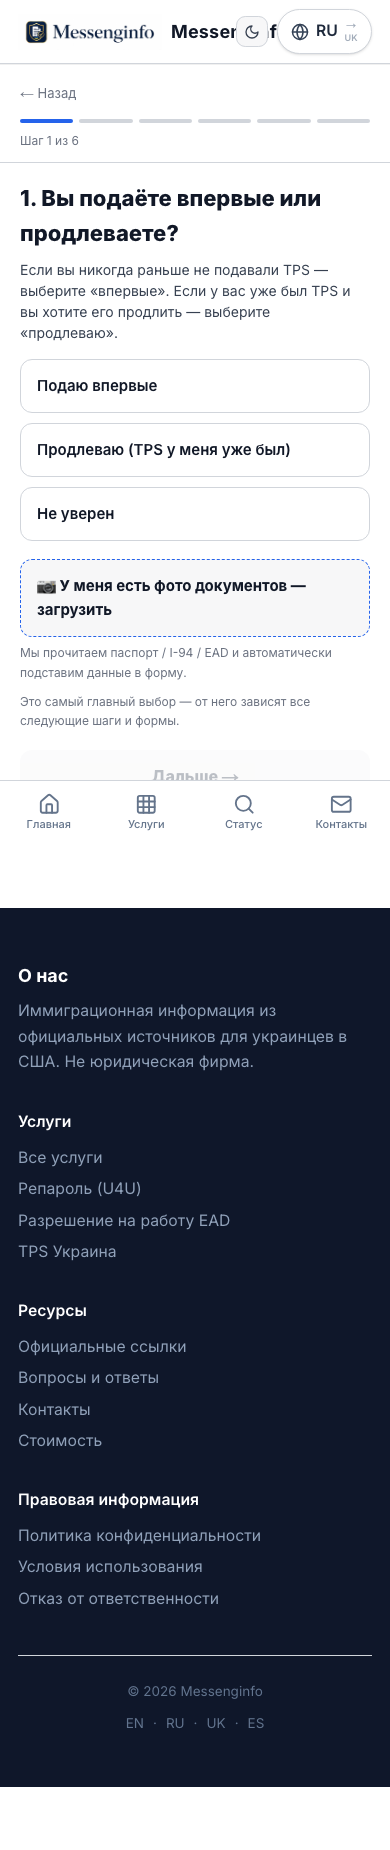
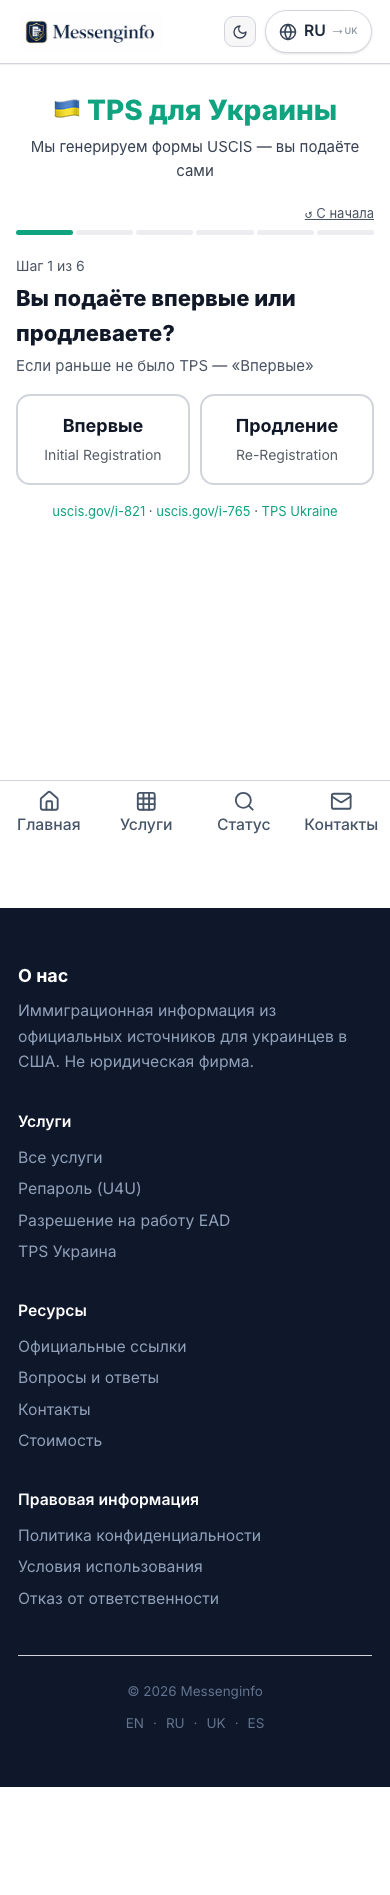
fix: Brain threshold post-contract + EAD dup + passport city + I-94 citizenship
P1: Brain threshold now uses post-contract field count. Before: I-94
had 5+ fields pre-contract → Brain skipped. After contract killed 1,
only 4 survived → identity/place gaps never filled.

P1: EAD given_name duplicate detection. When given_name == family_name
(common OCR error), given_name is dropped → Brain fills correct value.

P2: city_of_birth added to passport contract. Brain extracted it from
visible zone but contract killed it.

P2: country_of_citizenship added to I-94 contract. Module emits this
field name but contract only had country_of_nationality.

P2: Brain targeted fields added for I-94 (place, names) and EAD (given).

P3: BOOKLET_WAVE1_FIELDS → single module-level constant.

1968/1968 tests pass. Session 15.

diff --git a/apps/web/src/app/api/tps/ocr/extract/route.ts b/apps/web/src/app/api/tps/ocr/extract/route.ts
@@ -532,6 +532,18 @@ export async function POST(req: NextRequest) {
   let brainResult: DocumentBrainOutput | null = null
   const ruleFieldsCount = moduleResult?.fields?.length ?? 0
 
+  // P1 FIX: Brain threshold must account for contract filtering.
+  // Without this, I-94 module finds 5+ fields → Brain skips → contract
+  // kills some → only 4 survive → identity/place fields never extracted.
+  // Pre-compute how many fields will survive the contract to decide
+  // whether Brain should run.
+  const contractPreview = applyContract(
+    docTypeHint,
+    moduleResult ? moduleResult.fields.map((f) => f.field) : [],
+    null, // Brain hasn't run yet, no doc_type classification
+  )
+  const postContractFieldCount = contractPreview.accepted_field_keys.length
+
   // 2026-05-22: Targeted Brain Fill — high-value fields that rule modules
   // cannot extract from their primary structured source (e.g. MRZ for
   // passport has no middle_name or country_of_birth). If any of these
@@ -542,18 +554,26 @@ export async function POST(req: NextRequest) {
   // without lowering the global threshold.
   const TARGETED_BRAIN_FIELDS: Record<string, string[]> = {
     passport: ['middle_name', 'country_of_birth', 'province_of_birth'],
-    // BUG-9 FIX (2026-05-24): booklet handwritten OCR is garbage from
-    // Vision. Brain second-pass is the ONLY reliable extraction method
-    // for these fields. Rule module finds labels but values are mangled.
     booklet: ['city_of_birth', 'province_of_birth'],
+    // P2 FIX: I-94 rule module often misses name/place fields due to
+    // CBP format variations. Brain should fill identity + port of entry.
+    i94: ['place_of_last_entry', 'family_name', 'given_name'],
+    // P2 FIX: EAD rule module sometimes duplicates family_name as given_name.
+    ead: ['given_name'],
+    ead_old: ['given_name'],
   }
-  const ruleFieldKeys = new Set(moduleResult?.fields?.map((f) => f.field) ?? [])
+  // Use POST-CONTRACT field keys for targeted check — pre-contract keys
+  // include fields that contract will kill (false "already have it").
+  const postContractKeys = new Set(contractPreview.accepted_field_keys)
   const targetedMissing = (TARGETED_BRAIN_FIELDS[docTypeHint] ?? [])
-    .filter((f) => !ruleFieldKeys.has(f))
+    .filter((f) => !postContractKeys.has(f))
 
+  // P1 FIX: use postContractFieldCount instead of ruleFieldsCount.
+  // Before this fix, I-94 had 5+ pre-contract fields → Brain skipped →
+  // contract killed 1+ → only 4 fields survived → gaps never filled.
   const shouldTryBrain =
     isBrainEnabled() &&
-    (moduleResult === null || moduleResult.matched === false || ruleFieldsCount < 5 ||
+    (moduleResult === null || moduleResult.matched === false || postContractFieldCount < 5 ||
      targetedMissing.length > 0)
   if (shouldTryBrain) {
     try {
@@ -773,7 +793,7 @@ export async function POST(req: NextRequest) {
       ? 'off'
       : moduleResult === null || moduleResult.matched === false
         ? 'no_match'
-        : ruleFieldsCount < 5
+        : postContractFieldCount < 5
           ? 'threshold'
           : targetedMissing.length > 0
             ? 'targeted'

diff --git a/apps/web/src/lib/tps/modules/ead.ts b/apps/web/src/lib/tps/modules/ead.ts
@@ -185,6 +185,20 @@ export function runEadModule(ocr: OcrResult, opts: EadOptions): TpsModuleResult 
     })
   }
 
+  // P1 FIX: EAD OCR sometimes duplicates family_name as given_name
+  // (both extracted as the same ALL-CAPS surname). If they match,
+  // drop given_name so Brain can fill the correct value. Passport
+  // identity authority would override anyway, but standalone EAD
+  // users (no passport) would get wrong data without this guard.
+  const famField = fields.find((f) => f.field === 'family_name')
+  const givField = fields.find((f) => f.field === 'given_name')
+  if (famField && givField &&
+    famField.normalized_value?.toLowerCase().trim() === givField.normalized_value?.toLowerCase().trim()) {
+    const idx = fields.indexOf(givField)
+    if (idx >= 0) fields.splice(idx, 1)
+    warnings.push('EAD given_name identical to family_name — removed to avoid data corruption. Brain or manual entry needed.')
+  }
+
   const matched = fields.length >= 2  // need at least category + expiry OR name fields
   if (!matched) {
     return {

diff --git a/apps/web/src/app/[locale]/services/tps-ukraine/start/TPSWizardV2.tsx b/apps/web/src/app/[locale]/services/tps-ukraine/start/TPSWizardV2.tsx
@@ -1098,6 +1098,10 @@ const SLOT_ALLOWED_FIELDS: Record<string, ReadonlySet<string>> = {
   ]),
   photo: new Set([]),
 }
+// P3 FIX: single module-level constant instead of two inline definitions
+// that could drift independently.
+const BOOKLET_WAVE1_FIELDS: ReadonlySet<string> = new Set(['city_of_birth', 'province_of_birth'])
+
 // TPS Stage I price displayed on the Pay button (single source of truth
 // for the UI label; the actual Stripe Price ID is set server-side).
 const TPS_TIER1_PRICE_DISPLAY = '$15'
@@ -1804,7 +1808,6 @@ export default function TPSWizardV2({ locale }: Props) {
   // near the top of this file) so React's exhaustive-deps lint stays
   // happy without a dep on a recreated Set per render.
   const mergedFields = useMemo(() => {
-    const BOOKLET_WAVE1_FIELDS = new Set(['city_of_birth', 'province_of_birth'])
     const merged: Record<string, FieldExtraction> = {}
     const conflicts: Record<string, string[]> = {}
     // Pass 1 — passport authoritative for identity fields.
@@ -1895,7 +1898,6 @@ export default function TPSWizardV2({ locale }: Props) {
         const knowledgeDiagByField = new Map(
           knowledgeDiagnostics.map((d) => [d.field, d]),
         )
-        const BOOKLET_WAVE1_FIELDS = new Set(['city_of_birth', 'province_of_birth'])
         // Backend contract:
         //   json.module.fields[] — TpsExtractedField shape, each with
         //     `field`, `raw_value`, `normalized_value`, `extraction_source`,

diff --git a/apps/web/src/lib/tps/ocr/documentContracts.ts b/apps/web/src/lib/tps/ocr/documentContracts.ts
@@ -80,6 +80,9 @@ export const DOCUMENT_CONTRACTS: Record<SlotId, DocumentSlotContract> = {
       // Brain can extract province_of_birth from this printed text.
       // Much more reliable than booklet handwritten OCR.
       'province_of_birth',
+      // P2 FIX: city_of_birth also extractable from passport visible zone.
+      // Was rejected as FIELD_NOT_ALLOWED → Brain extraction killed.
+      'city_of_birth',
     ],
     forbidden_fields: [
       'a_number',
@@ -162,6 +165,9 @@ export const DOCUMENT_CONTRACTS: Record<SlotId, DocumentSlotContract> = {
       // I-94 also carries country of citizenship — allowed read-only;
       // identity guard makes passport authoritative on conflict.
       'country_of_nationality',
+      // P2 FIX: I-94 module emits 'country_of_citizenship' (CBP field name)
+      // which was rejected because only 'country_of_nationality' was listed.
+      'country_of_citizenship',
       // I-94 mirrors a few passport-identity fields; allowed read-only,
       // but the identity conflict guard treats passport as authoritative.
       'passport_number',

diff --git a/STATUS.md b/STATUS.md
@@ -1,6 +1,6 @@
 # STATUS.md
 Last updated: 2026-05-24 21:00 UTC
-Session: 15 (P0 routing + P1 Part7 + P2 marital)
+Session: 15 (P0+P1+P2 full pipeline fix)
 Production SHA: pending deploy (session 15)
 
 ## Product

diff --git a/CHANGELOG.md b/CHANGELOG.md
@@ -594,3 +594,4 @@ Implemented guarded extraction and parity lock for Ukrainian internal passport b
 **Validation:**
 - Build: PASS
 - Tests: 57/57 files, 1968/1968 tests PASS
+### Session 15 commit 5: Brain threshold + EAD dup + contracts

diff --git a/HANDOFF.md b/HANDOFF.md
@@ -107,3 +107,4 @@ Status for this scope: FAIL (internal-passport normalization/field materializati
 ### Still required for release verdict
 - Live strict evidence matrix (UI + network + generate + ZIP + PDF) on one SHA.
 - Owner mode OTP flow still can be marked BLOCKED only with hard evidence if access unavailable.
+